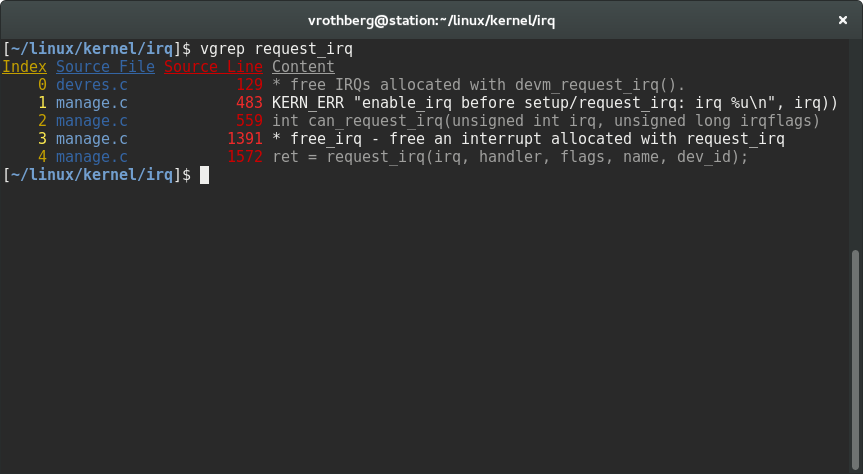
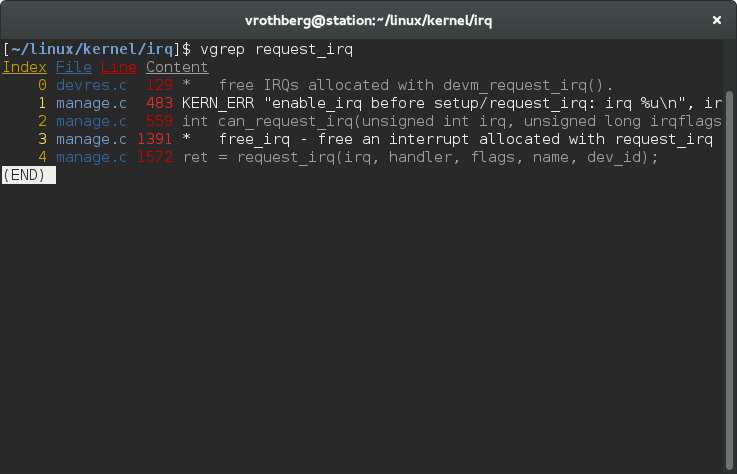
vgrep: remove 'Source' from header
It just takes space and what if we don't grep source code? :)

Changed region(s): [[0.0, 0.0886, 0.9986, 0.9747], [0.3121, 0.0295, 0.6866, 0.0591], [0.9674, 0.0295, 0.9986, 0.0591]]

diff --git a/README.md b/README.md
@@ -10,13 +10,13 @@ free to copy, change, distribute and share.
 
 ###Searching a symbol
 You can search for all occurrences of a specified string 'FOO' in your current
-directory by calling **vgrep FOO**.  You can also specify multiple arguments
-to search for.  vgrep prints the occurrences in the format "Index  Source File
-Source Line  Content".  The index can later be used to open a specific location
-in an editor.  vgrep caches the results of the last call, so that you can
-re-open your previous results by simply calling **vgrep** without arguments.
-Add **'--word-regexp'** if you want to match the pattern 'FOO' only at word
-boundaries (e.g., to avoid substring matches).
+directory by calling **vgrep FOO**.  You can also specify multiple arguments to
+search for.  vgrep prints the occurrences in the format "Index File Line
+Content".  The index can later be used to open a specific location in an editor.
+vgrep caches the results of the last call, so that you can re-open your previous
+results by simply calling **vgrep** without arguments.  Add **'--word-regexp'**
+if you want to match the pattern 'FOO' only at word boundaries (e.g., to avoid
+    substring matches).
 
 ![](https://github.com/vrothberg/vgrep/blob/master/screenshots/grep_example.png)
 
